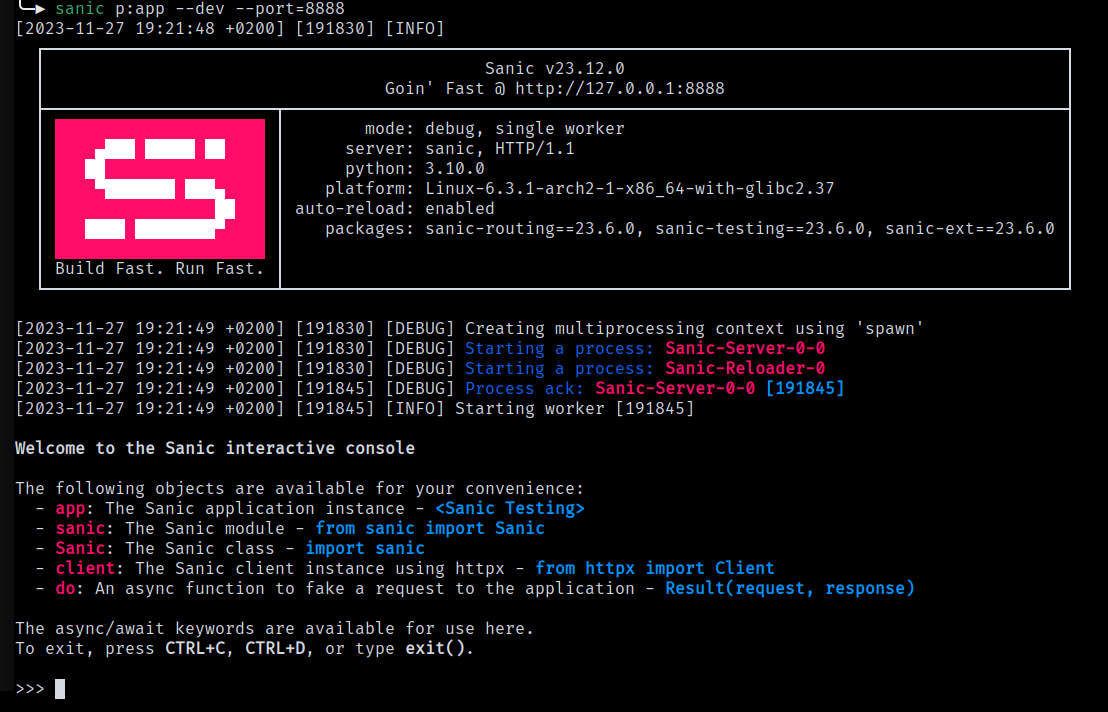
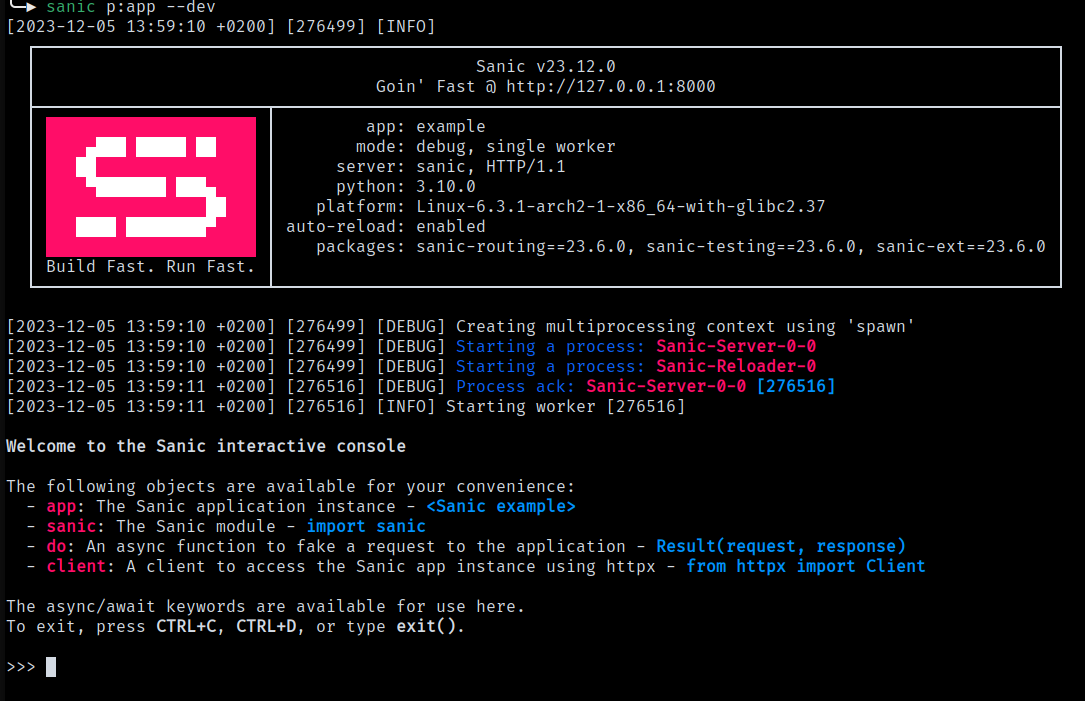
cleanup docs

Changed region(s): [[0.0, 0.4494, 0.8516, 0.9886], [0.0, 0.0, 0.9733, 0.4194], [0.9429, 0.1498, 0.9733, 0.1797]]

diff --git a/sanic/cli/console.py b/sanic/cli/console.py
@@ -7,11 +7,8 @@ import traceback
 from ast import PyCF_ALLOW_TOP_LEVEL_AWAIT
 from asyncio import iscoroutine, new_event_loop
 from code import InteractiveConsole
-from dataclasses import dataclass
 from types import FunctionType
 from typing import Any, Dict, NamedTuple, Optional, Sequence, Tuple, Union
-
-from httpx import request
 
 import sanic
 
@@ -39,7 +36,7 @@ except ImportError:
     HTTPX_AVAILABLE = False
 
 try:
-    import readline
+    import readline  # noqa
 except ImportError:
     print(
         "Module 'readline' not available. History navigation will be limited.",
@@ -117,24 +114,25 @@ class SanicREPL(InteractiveConsole):
         locals_available = {
             "app": app,
             "sanic": sanic,
-            "Sanic": Sanic,
             "do": do,
         }
         client_availability = ""
         variable_descriptions = [
             f"  - {Colors.BOLD + Colors.SANIC}app{Colors.END}: The Sanic application instance - {Colors.BOLD + Colors.BLUE}{str(app)}{Colors.END}",  # noqa: E501
-            f"  - {Colors.BOLD + Colors.SANIC}sanic{Colors.END}: The Sanic module - {Colors.BOLD + Colors.BLUE}from sanic import Sanic{Colors.END}",  # noqa: E501
-            f"  - {Colors.BOLD + Colors.SANIC}Sanic{Colors.END}: The Sanic class - {Colors.BOLD + Colors.BLUE}import sanic{Colors.END}",  # noqa: E501
-            f"  - {Colors.BOLD + Colors.SANIC}client{Colors.END}: The Sanic client instance using httpx - {Colors.BOLD + Colors.BLUE}from httpx import Client{Colors.END}",  # noqa: E501
+            f"  - {Colors.BOLD + Colors.SANIC}sanic{Colors.END}: The Sanic module - {Colors.BOLD + Colors.BLUE}import sanic{Colors.END}",  # noqa: E501
             f"  - {Colors.BOLD + Colors.SANIC}do{Colors.END}: An async function to fake a request to the application - {Colors.BOLD + Colors.BLUE}Result(request, response){Colors.END}",  # noqa: E501
         ]
         if HTTPX_AVAILABLE:
             locals_available["client"] = SanicClient(app)
+            variable_descriptions.append(
+                f"  - {Colors.BOLD + Colors.SANIC}client{Colors.END}: A client to access the Sanic app instance using httpx - {Colors.BOLD + Colors.BLUE}from httpx import Client{Colors.END}",  # noqa: E501
+            )
         else:
             del variable_descriptions[3]
             client_availability = (
                 f"\n{Colors.YELLOW}The HTTP client has been disabled. "
-                f"To enable it, install httpx:\n\tpip install httpx{Colors.END}\n"
+                "To enable it, install httpx:\n\t"
+                f"pip install httpx{Colors.END}\n"
             )
         super().__init__(locals=locals_available)
         self.compile.compiler.flags |= PyCF_ALLOW_TOP_LEVEL_AWAIT
@@ -150,22 +148,21 @@ class SanicREPL(InteractiveConsole):
             daemon=True,
         )
         self._async_thread = threading.Thread(
-            target=self.loop.run_forever, daemon=True
+            target=self.loop.run_forever,
+            daemon=True,
         )
         self.app = app
         self.resume()
-        self.exit_message = (
-            "Closing the REPL. Press CTRL+C to exit completely."
-        )
+        self.exit_message = "Closing the REPL."
         self.banner_message = "\n".join(
             [
-                f"\n{Colors.BOLD}Welcome to the Sanic interactive console{Colors.END}",
+                f"\n{Colors.BOLD}Welcome to the Sanic interactive console{Colors.END}",  # noqa: E501
                 client_availability,
-                "The following objects are available for your convenience:",
+                "The following objects are available for your convenience:",  # noqa: E501
                 *variable_descriptions,
-                "\nThe async/await keywords are available for use here.",
+                "\nThe async/await keywords are available for use here.",  # noqa: E501
                 f"To exit, press {Colors.BOLD}CTRL+C{Colors.END}, "
-                f"{Colors.BOLD}CTRL+D{Colors.END}, or type {Colors.BOLD}exit(){Colors.END}.\n",
+                f"{Colors.BOLD}CTRL+D{Colors.END}, or type {Colors.BOLD}exit(){Colors.END}.\n",  # noqa: E501
             ]
         )
 

diff --git a/sanic/response/types.py b/sanic/response/types.py
@@ -80,9 +80,7 @@ class BaseHTTPResponse:
     def _encode_body(self, data: Optional[AnyStr]):
         if data is None:
             return b""
-        return (
-            data.encode() if hasattr(data, "encode") else data  # type: ignore
-        )
+        return data.encode() if hasattr(data, "encode") else data  # type: ignore
 
     @property
     def cookies(self) -> CookieJar:
@@ -141,11 +139,7 @@ class BaseHTTPResponse:
                 "Response stream was ended, no more response data is "
                 "allowed to be sent."
             )
-        data = (
-            data.encode()  # type: ignore
-            if hasattr(data, "encode")
-            else data or b""
-        )
+        data = data.encode() if hasattr(data, "encode") else data or b""  # type: ignore
         await self.stream.send(
             data,  # type: ignore
             end_stream=end_stream or False,

diff --git a/sanic/models/server_types.py b/sanic/models/server_types.py
@@ -63,9 +63,7 @@ class ConnInfo:
             if addr[1] != (443 if self.ssl else 80):
                 self.server = f"{self.server}:{addr[1]}"
         self.peername = addr = transport.get_extra_info("peername")
-        self.network_paths = transport.get_extra_info(  # type: ignore
-            "network_paths"
-        )
+        self.network_paths = transport.get_extra_info("network_paths")  # type: ignore
 
         if isinstance(addr, tuple):
             self.client = addr[0] if len(addr) == 2 else f"[{addr[0]}]"

diff --git a/sanic/mixins/startup.py b/sanic/mixins/startup.py
@@ -816,9 +816,7 @@ class StartupMixin(metaclass=SanicMeta):
             module_name = package_name.replace("-", "_")
             try:
                 module = import_module(module_name)
-                packages.append(
-                    f"{package_name}=={module.__version__}"  # type: ignore
-                )
+                packages.append(f"{package_name}=={module.__version__}")  # type: ignore
             except ImportError:  # no cov
                 ...
 

diff --git a/guide/content/en/guide/running/development.md b/guide/content/en/guide/running/development.md
@@ -100,9 +100,8 @@ As seen in the screenshot above, the REPL will automatically add a few variables
 
 - `app` - The Sanic application instance. This is the same instance that is passed to the `sanic` CLI.
 - `sanic` - The `sanic` module. This is the same module that is imported when you run `import sanic`.
-- `Sanic` - The `Sanic` class. This is the same class that is imported when you run `from sanic import Sanic`.
-- `client` - An instance of `httpx.Client` that is configured to make requests to your application. This is useful for testing your application from the REPL. **Note:** This is only available if `httpx` is installed in your environment.
 - `do` - A function that will create a mock `Request` object and pass it to your application. This is useful for testing your application from the REPL.
+- `client` - An instance of `httpx.Client` that is configured to make requests to your application. This is useful for testing your application from the REPL. **Note:** This is only available if `httpx` is installed in your environment.
 
 ### Async/Await support
 
@@ -178,6 +177,24 @@ Or, by destructuring the tuple:
 >>> response
 <JSONResponse: 200 application/json>
 ```
+
+### When to use `do` vs `client`?
+
+.. column::
+
+    **Use `do` when ...**
+
+    - You want to test a route that does not exist in the running application
+    - You want to test a route that has been modified in the REPL
+    - You make a change to your application inside the REPL
+
+.. column::
+
+    **Use `client` when ...**
+
+    - You want to test a route that already exists in the running application
+    - You want to test a route that has been modified in your source code
+    - You want to send an actual HTTP request to your application
 
 *Added in v23.12*
 
